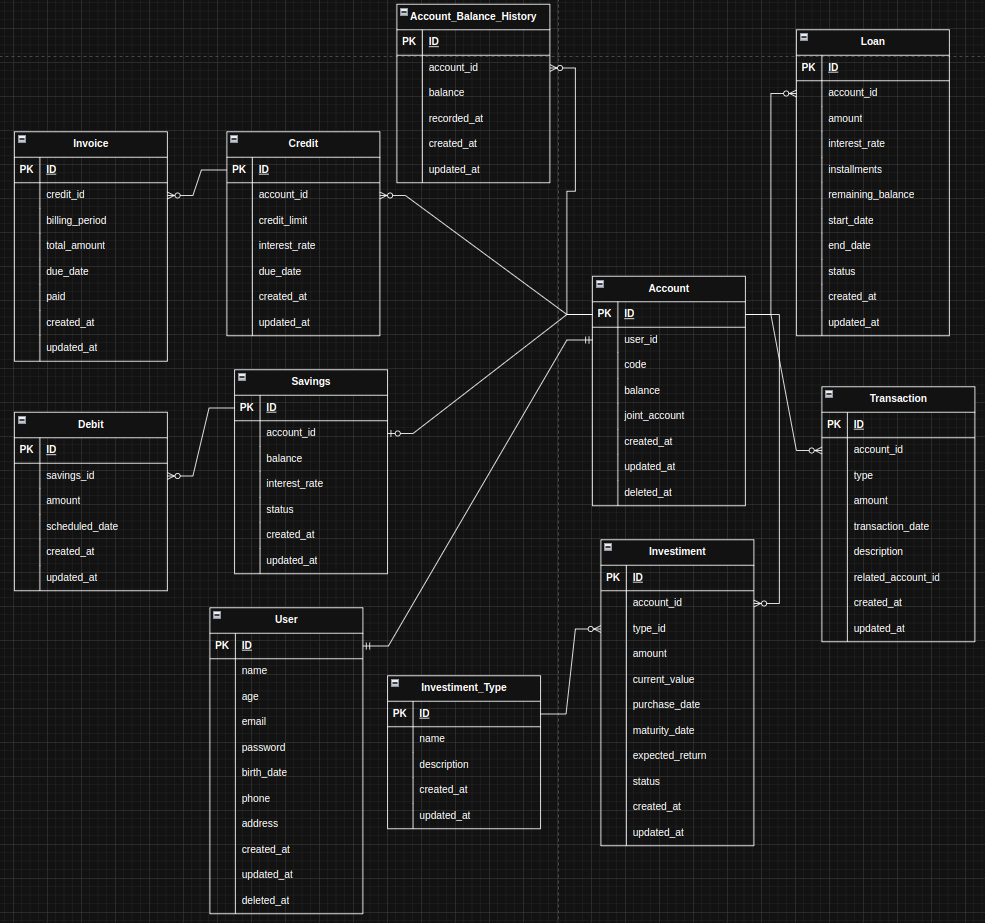
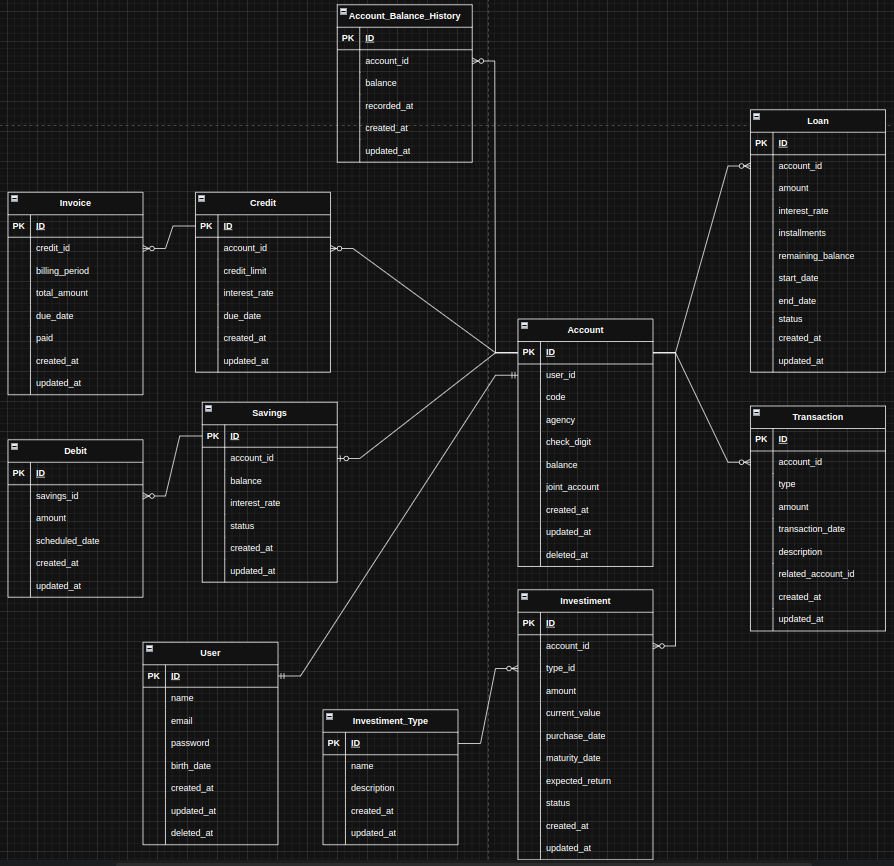
updated der and created account module

diff --git a/src/module/account/account.entity.ts b/src/module/account/account.entity.ts
@@ -1,0 +1,169 @@
+import { ConflictException } from "@nestjs/common";
+import { randomUUID } from "crypto";
+
+interface iAccount {
+	id?: string;
+	code?: number;
+	agency?: string;
+	check_digit?: string;
+	balance?: number;
+	joint_account?: boolean;
+	created_at?: Date;
+	updated_at?: Date;
+	deleted_at?: Date | null;
+	user_id?: string;
+}
+
+interface iAccountCreate {
+	agency: string;
+	check_digit: string;
+	balance?: number;
+	joint_account: boolean;
+	user_id: string;
+}
+
+interface iAccountUpdate {
+	agency?: string;
+	check_digit?: string;
+	balance?: number;
+	joint_account?: boolean;
+}
+
+export class AccountEntity {
+	id: string;
+	code: number;
+	agency: string;
+	check_digit: string;
+	balance: number;
+	joint_account: boolean;
+	created_at: Date;
+	updated_at: Date;
+	deleted_at: Date | null;
+	user_id: string;
+
+	constructor(account: iAccount) {
+		if (account.id) this.id = account.id;
+		if (account.code) this.code = account.code;
+		if (account.agency) this.setAgency(account.agency);
+		if (account.check_digit) this.setCheckDigit(account.check_digit);
+		this.balance = account.balance ?? 0;
+		this.joint_account = account.joint_account ?? false;
+		this.created_at = account.created_at ?? new Date();
+		this.updated_at = account.updated_at ?? new Date();
+		this.deleted_at = account.deleted_at ?? null;
+		if (account.user_id) this.user_id = account.user_id;
+	}
+
+	get() {
+		return {
+			id: this.id,
+			code: this.code,
+			agency: this.agency,
+			check_digit: this.check_digit,
+			balance: this.balance,
+			joint_account: this.joint_account,
+			created_at: this.created_at,
+			updated_at: this.updated_at,
+			deleted_at: this.deleted_at,
+			user_id: this.user_id,
+		};
+	}
+
+	getId(): string {
+		return this.id;
+	}
+	getCode(): number {
+		return this.code;
+	}
+	getAgency(): string {
+		return this.agency;
+	}
+	getCheckDigit(): string {
+		return this.check_digit;
+	}
+	getBalance(): number {
+		return this.balance;
+	}
+	isJointAccount(): boolean {
+		return this.joint_account;
+	}
+	getCreatedAt(): Date {
+		return this.created_at;
+	}
+	getUpdatedAt(): Date {
+		return this.updated_at;
+	}
+	getDeletedAt(): Date | null {
+		return this.deleted_at;
+	}
+	getUserId(): string {
+		return this.user_id;
+	}
+
+	setId(): void {
+		this.id = randomUUID();
+	}
+	setCode(code: number): void {
+		this.code = code;
+	}
+	setAgency(agency: string): void {
+		agency = agency.trim();
+		if (agency.length === 0) {
+			throw new ConflictException("agency cannot be empty");
+		}
+		this.agency = agency;
+	}
+	setCheckDigit(check_digit: string): void {
+		check_digit = check_digit.trim();
+		if (check_digit.length !== 1) {
+			throw new ConflictException("check digit must be exactly 1 character");
+		}
+		this.check_digit = check_digit;
+	}
+	setBalance(balance: number): void {
+		if (balance < 0) {
+			throw new ConflictException("balance cannot be negative");
+		}
+		this.balance = balance;
+	}
+	setJointAccount(joint_account: boolean): void {
+		this.joint_account = joint_account;
+	}
+	setCreatedAt(): void {
+		this.created_at = new Date();
+	}
+	setUpdatedAt(): void {
+		this.updated_at = new Date();
+	}
+	setDeletedAt(deleted: boolean): void {
+		if (deleted) {
+			this.deleted_at = new Date();
+		} else {
+			this.deleted_at = null;
+		}
+	}
+	setUserId(user_id: string): void {
+		this.user_id = user_id;
+	}
+
+	create(account: iAccountCreate): void {
+		this.setId();
+		this.setAgency(account.agency);
+		this.setCheckDigit(account.check_digit);
+		this.setBalance(account.balance ?? 0);
+		this.setJointAccount(account.joint_account);
+		this.setCreatedAt();
+		this.setUpdatedAt();
+		this.setDeletedAt(false);
+		this.setUserId(account.user_id);
+	}
+
+	update(account: iAccountUpdate): void {
+		this.setUpdatedAt();
+		if (account.agency) this.setAgency(account.agency);
+		if (account.check_digit) this.setCheckDigit(account.check_digit);
+		if (account.balance !== undefined) this.setBalance(account.balance);
+		if (account.joint_account !== undefined)
+			this.setJointAccount(account.joint_account);
+	}
+}

diff --git a/src/module/account/account.service.ts b/src/module/account/account.service.ts
@@ -1,0 +1,11 @@
+import { Injectable } from "@nestjs/common";
+import { AccountRepository } from "./account.repository";
+import { AccountValidator } from "./account.validator";
+
+@Injectable()
+export class AccountService {
+	constructor(
+		private readonly repository: AccountRepository,
+		private readonly validator: AccountValidator,
+	) {}
+}

diff --git a/src/module/account/account.validator.ts b/src/module/account/account.validator.ts
@@ -1,0 +1,7 @@
+import { Injectable } from "@nestjs/common";
+import { AccountRepository } from "./account.repository";
+
+@Injectable()
+export class AccountValidator {
+	constructor(private readonly repository: AccountRepository) {}
+}

diff --git a/src/module/account/account.controller.ts b/src/module/account/account.controller.ts
@@ -1,0 +1,7 @@
+import { Controller } from "@nestjs/common";
+import { AccountService } from "./account.service";
+
+@Controller("account")
+export class AccountController {
+	constructor(private readonly service: AccountService) {}
+}

diff --git a/src/module/account/account.repository.ts b/src/module/account/account.repository.ts
@@ -1,0 +1,7 @@
+import { Injectable } from "@nestjs/common";
+import { PrismaService } from "../prisma/prisma.service";
+
+@Injectable()
+export class AccountRepository {
+	constructor(private readonly prisma: PrismaService) {}
+}
